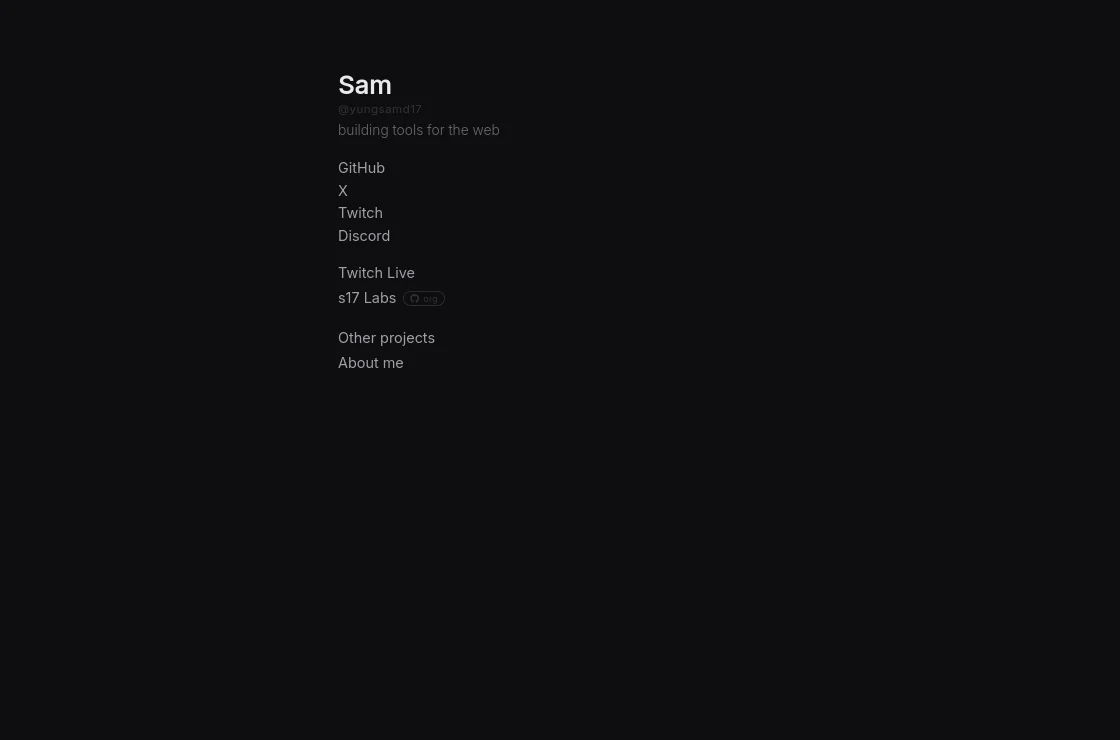
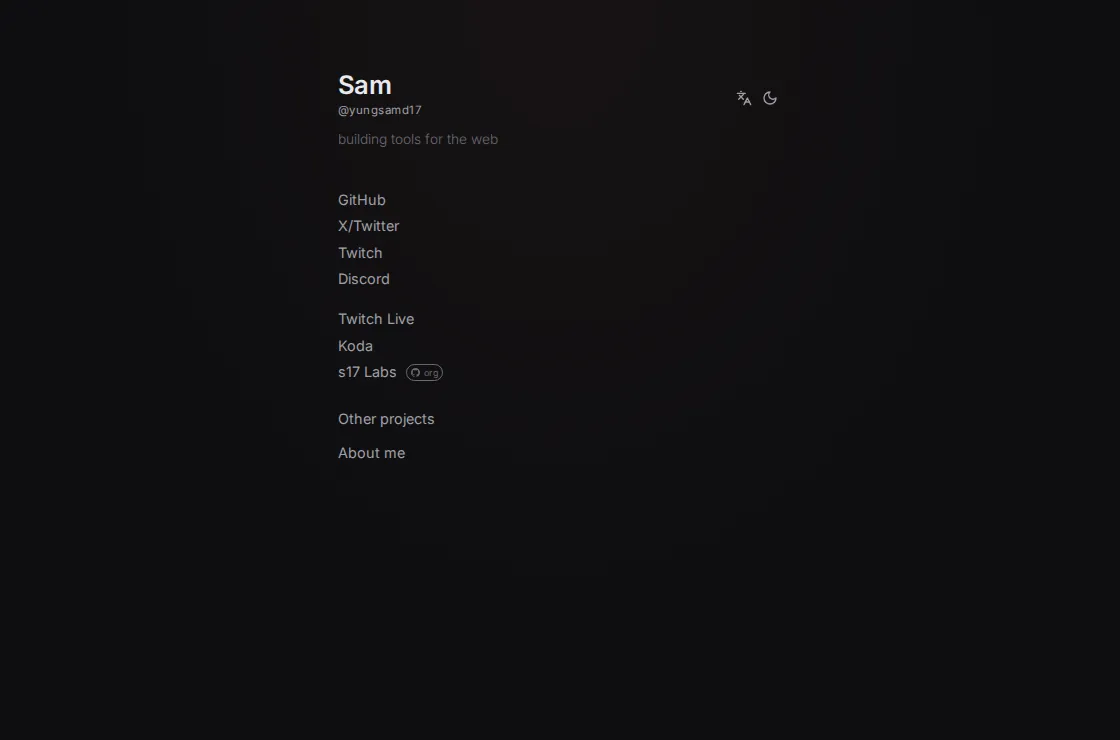
feat(pages): refresh history editions and previews

Changed region(s): [[0.2812, 0.0932, 0.4375, 0.5284], [0.3125, 0.5595, 0.375, 0.6216], [0.6562, 0.1243, 0.6875, 0.1554]]

diff --git a/src/data/history.ts b/src/data/history.ts
@@ -4,6 +4,7 @@ export const HISTORY_PROJECT = {
   title: 'Website Time Machine',
   site: '/history/',
   mono: 'TM',
+  projectIcon: '/projects/website-time-machine.svg',
   iconBg: '#332526',
   accent: '#ff8a80',
   langs: ['HTML', 'CSS', 'Astro'],
@@ -20,6 +21,9 @@ interface Edition {
   revision: string;
   title: LocalizedText;
   description: LocalizedText;
+  alt: LocalizedText;
+  focus: string;
+  light?: boolean;
 }
 
 export const EDITIONS: Edition[] = [
@@ -33,28 +37,44 @@ export const EDITIONS: Edition[] = [
       en: 'A two-column personal blog with a row of social links, an About Me box, and a single post saying hello.',
       sk: 'Osobný blog s dvoma stĺpcami, odkazmi na sociálne siete, sekciou o mne a jedným príspevkom na uvítanie.',
     },
+    alt: {
+      en: 'The 2023 homepage with a large Sam heading, a row of social links, a "My First Post" entry and an About Me box.',
+      sk: 'Domovská stránka z roku 2023 s veľkým nadpisom Sam, radom sociálnych odkazov, príspevkom „My First Post“ a boxom O mne.',
+    },
+    focus: '50% 50%',
   },
   {
     slug: 'first-portfolio',
     date: '2024-02-13',
     label: '02.2024',
-    revision: '1f9f01e081295599b86950d65e9361f5d6f635d5',
+    revision: '10fb71081fd71415220e8b8d1b73c7a564522f02',
     title: { en: 'From blog to portfolio', sk: 'Od blogu k portfóliu' },
     description: {
-      en: 'Twitch Live and UserScripts took center stage. The homepage had a social link bar and a new reveal animation.',
-      sk: 'Do popredia sa dostali Twitch Live a UserScripts. Na domovskej stránke pribudol panel s odkazmi na sociálne siete a animácia pri načítaní.',
+      en: 'The one-page portfolio in its final form: a wipe-in reveal on load, a self-updating age in About Me, and Twitch Live and UserScripts leading the project lists.',
+      sk: 'Jednostrankové portfólio v poslednej podobe: postupné odhaľovanie obsahu pri načítaní, automaticky aktualizovaný vek v sekcii O mne a projekty Twitch Live a UserScripts na čele zoznamov.',
     },
+    alt: {
+      en: 'The final portfolio page with a Sam heading, a social link bar, an About Me section and lists of Twitch Live, UserScripts and other projects.',
+      sk: 'Posledná podoba portfólia s nadpisom Sam, panelom sociálnych odkazov, sekciou O mne a zoznamami projektov Twitch Live, UserScripts a ďalších.',
+    },
+    focus: '35% 50%',
   },
   {
     slug: 'minimal-site',
     date: '2026-03-31',
     label: '03.2026',
-    revision: '68048fbb8244076836f5ad24a79dced4053827b3',
-    title: { en: 'Down to the essentials', sk: 'Len to podstatné' },
+    revision: '470bb36d26445ca27f3790c57b4200bae1cba654',
+    title: { en: 'Essentials, now on Astro', sk: 'Podstatné, teraz v Astre' },
     description: {
-      en: 'The home page narrowed to one quiet column. Projects and the bio moved into their own views inside a single HTML page.',
-      sk: 'Domovská stránka sa zúžila na jeden jednoduchý stĺpec. Projekty a profil sa presunuli do samostatných zobrazení v rámci jednej HTML stránky.',
+      en: 'The one-column layout moved to Astro with separate About, Projects and Links pages and theme and language switchers. This was the last look before the card redesign.',
+      sk: 'Jednostĺpcové rozloženie prešlo na Astro so samostatnými stránkami O mne, Projekty a Odkazy a s prepínačmi témy a jazyka. Táto bola posledná podoba pred prepracovaním na karty.',
     },
+    alt: {
+      en: 'The last one-column version: a small Sam heading, a short tagline and a plain vertical list of links and projects.',
+      sk: 'Posledná jednostĺpcová verzia: malý nadpis Sam, krátke motto a jednoduchý zvislý zoznam odkazov a projektov.',
+    },
+    focus: '35% 50%',
+    light: true,
   },
   {
     slug: 'card-redesign',
@@ -66,8 +86,19 @@ export const EDITIONS: Edition[] = [
       en: 'Built with Astro, this version brought the bio back to the homepage alongside featured project cards and a GitHub contribution graph.',
       sk: 'Táto verzia využíva Astro. Na domovskú stránku sa vrátil profil a pribudli karty vybraných projektov aj graf aktivity na GitHube.',
     },
+    alt: {
+      en: 'The current homepage with an avatar, a short bio, social link cards and featured project cards.',
+      sk: 'Súčasná domovská stránka s avatarom, krátkym profilom, kartami sociálnych odkazov a vybraných projektov.',
+    },
+    focus: '30% 50%',
+    light: true,
   },
 ];
+
+export function editionImage(edition: Edition, theme: 'dark' | 'light' = 'dark') {
+  const suffix = theme === 'light' && edition.light ? '-light' : '';
+  return `${HISTORY_PROJECT.site}${edition.slug}${suffix}.webp`;
+}
 
 export function editionPath(edition: Edition) {
   return edition === EDITIONS[0] ? HISTORY_PROJECT.site : `${HISTORY_PROJECT.site}${edition.slug}/`;
